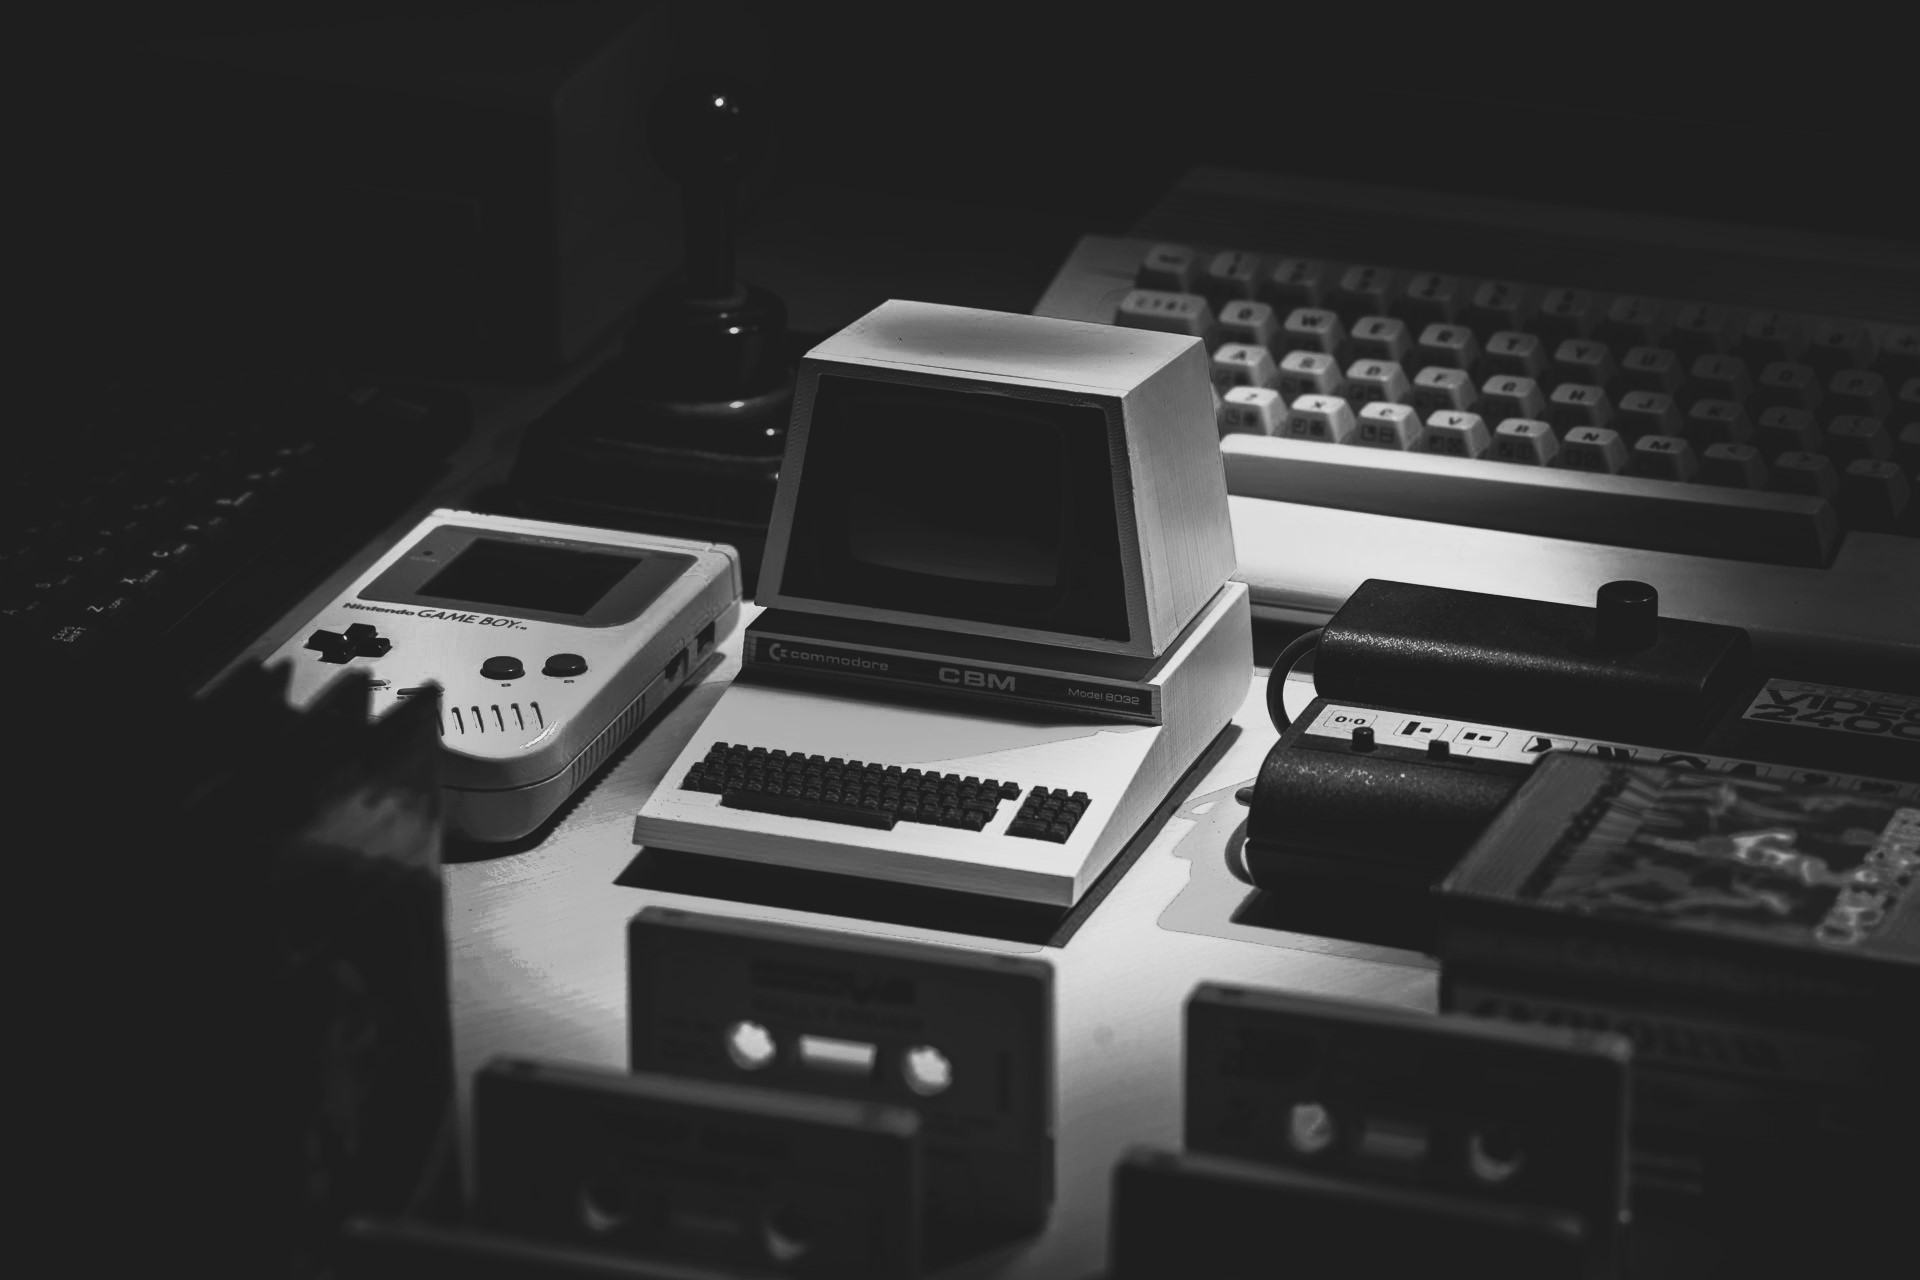
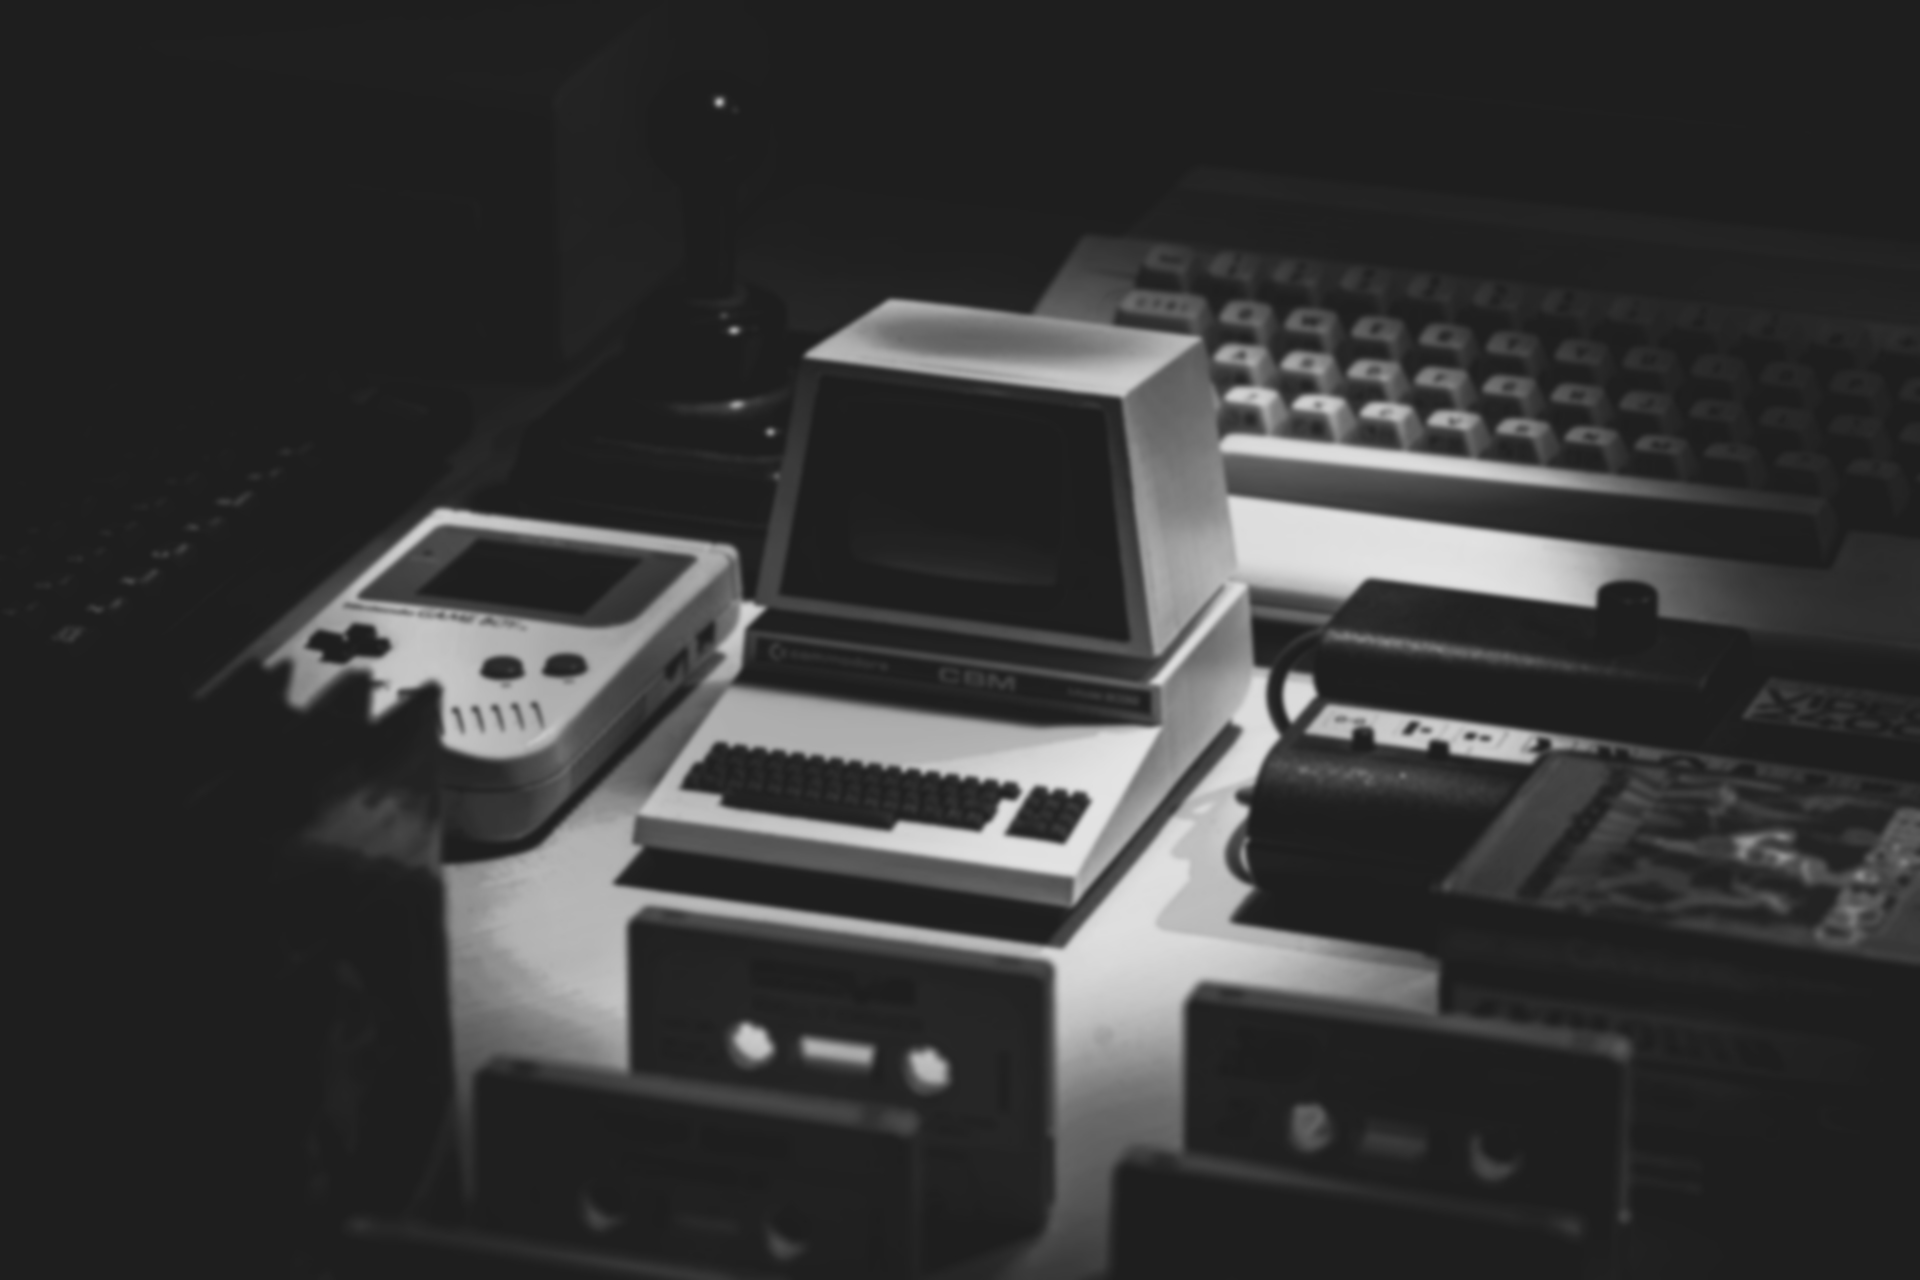
finish background styling of homepage

diff --git a/public/css/style.css b/public/css/style.css
@@ -24,9 +24,7 @@ button, a {
     text-decoration: none;
     border-radius: 10px;
     font-size: clamp(0.85rem, 0.6643rem + 0.9286vw, 1.5rem) !important;
-
  }
-
 h1 {
     font-size: clamp(1.7rem, 1.3286rem + 1.8571vw, 3rem); 
     font-weight: 900;
@@ -137,32 +135,33 @@ img { width: 100%; }
 
 
 /******************************************** HomePage / index *********************************************/
-.content {
-    position: relative;
-    min-height: 70vh;
-}
-
-.home-page-image{
-    position: absolute;
+.home-page-body{
+    background-image: url("/images/Retro-Game.jpg");
+    background-size: cover;
+    background-position: bottom;
+    background-repeat: no-repeat;
+    width: 100%;
 }
 
 .home-page-content{
-    position: absolute;
     display: flex;
     flex-direction: column;
-    max-width: 80vh;
-    padding: 2rem 3.5rem;
-    gap: 1.5rem;
+    min-height: 100vh;
+    padding: 4rem 3.5rem;
+    gap: 4.5rem; 
 }
 
-.home-page-image > img {
-    opacity: 0.2;
-    filter: blur(2px);
-    pointer-events: none;
+.home-page-text{    
+    max-width: 60%;
+}
+
+.home-page-text > h1{
+    padding-bottom: 1.5rem;
 }
 
 .home-page-buttons{
     display: flex;
+    justify-content: center;
     flex-wrap: wrap;
     padding-top: 3rem;
     gap: 2rem;
@@ -183,7 +182,17 @@ img { width: 100%; }
     color: var(--white) !important;
 }
 
+@media (max-width: 600px) {
+    .home-page-content{
+        max-width: 100%;
+        padding: 4rem 1.5rem;
+    }
 
+    .home-page-text {
+        max-width: 100%;
+    }
+
+}
 /************************************************* games.ejs view *************************************/
 
 .games-container { padding: 2rem 5rem;}
